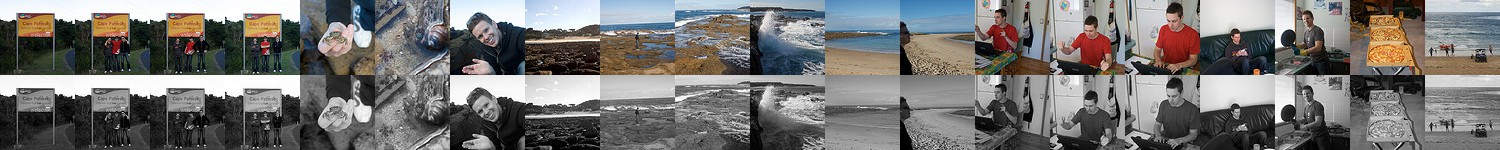
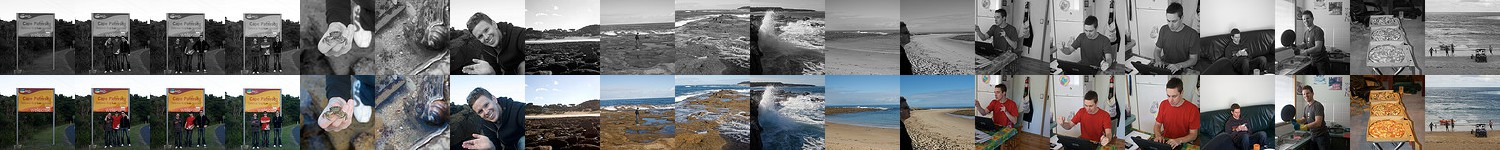
Put the mono version of an thumb first in the sprited image
So that when the image loads the colour version isn't visible until the mono version loads

diff --git a/content/screen.sass b/content/screen.sass
@@ -254,20 +254,20 @@ a
 
   ul
     display: block
-    // width: 5000px
-    height: 100px
+    height: 75px
     overflow: hidden
+    margin-top: 1em
 
   li
     float: left
     overflow: hidden
-    margin: 1em 0 0 1em
+    margin: 0 0 0 1em
     display: block
     position: relative
     height: 75px
     width: 75px
     border: 1px solid #ccc
-    background: url(/images/photos.jpg) no-repeat 0 0
+    background: url(/images/photos.jpg) no-repeat 0 -75px
 
     &:first-child
       margin-left: 2em
@@ -275,10 +275,8 @@ a
     img
       -webkit-transition: opacity 500ms ease-out
       position: absolute
-      top: -75px
 
       &:hover
-        //top: 0
         opacity: 0
 
   a.more
